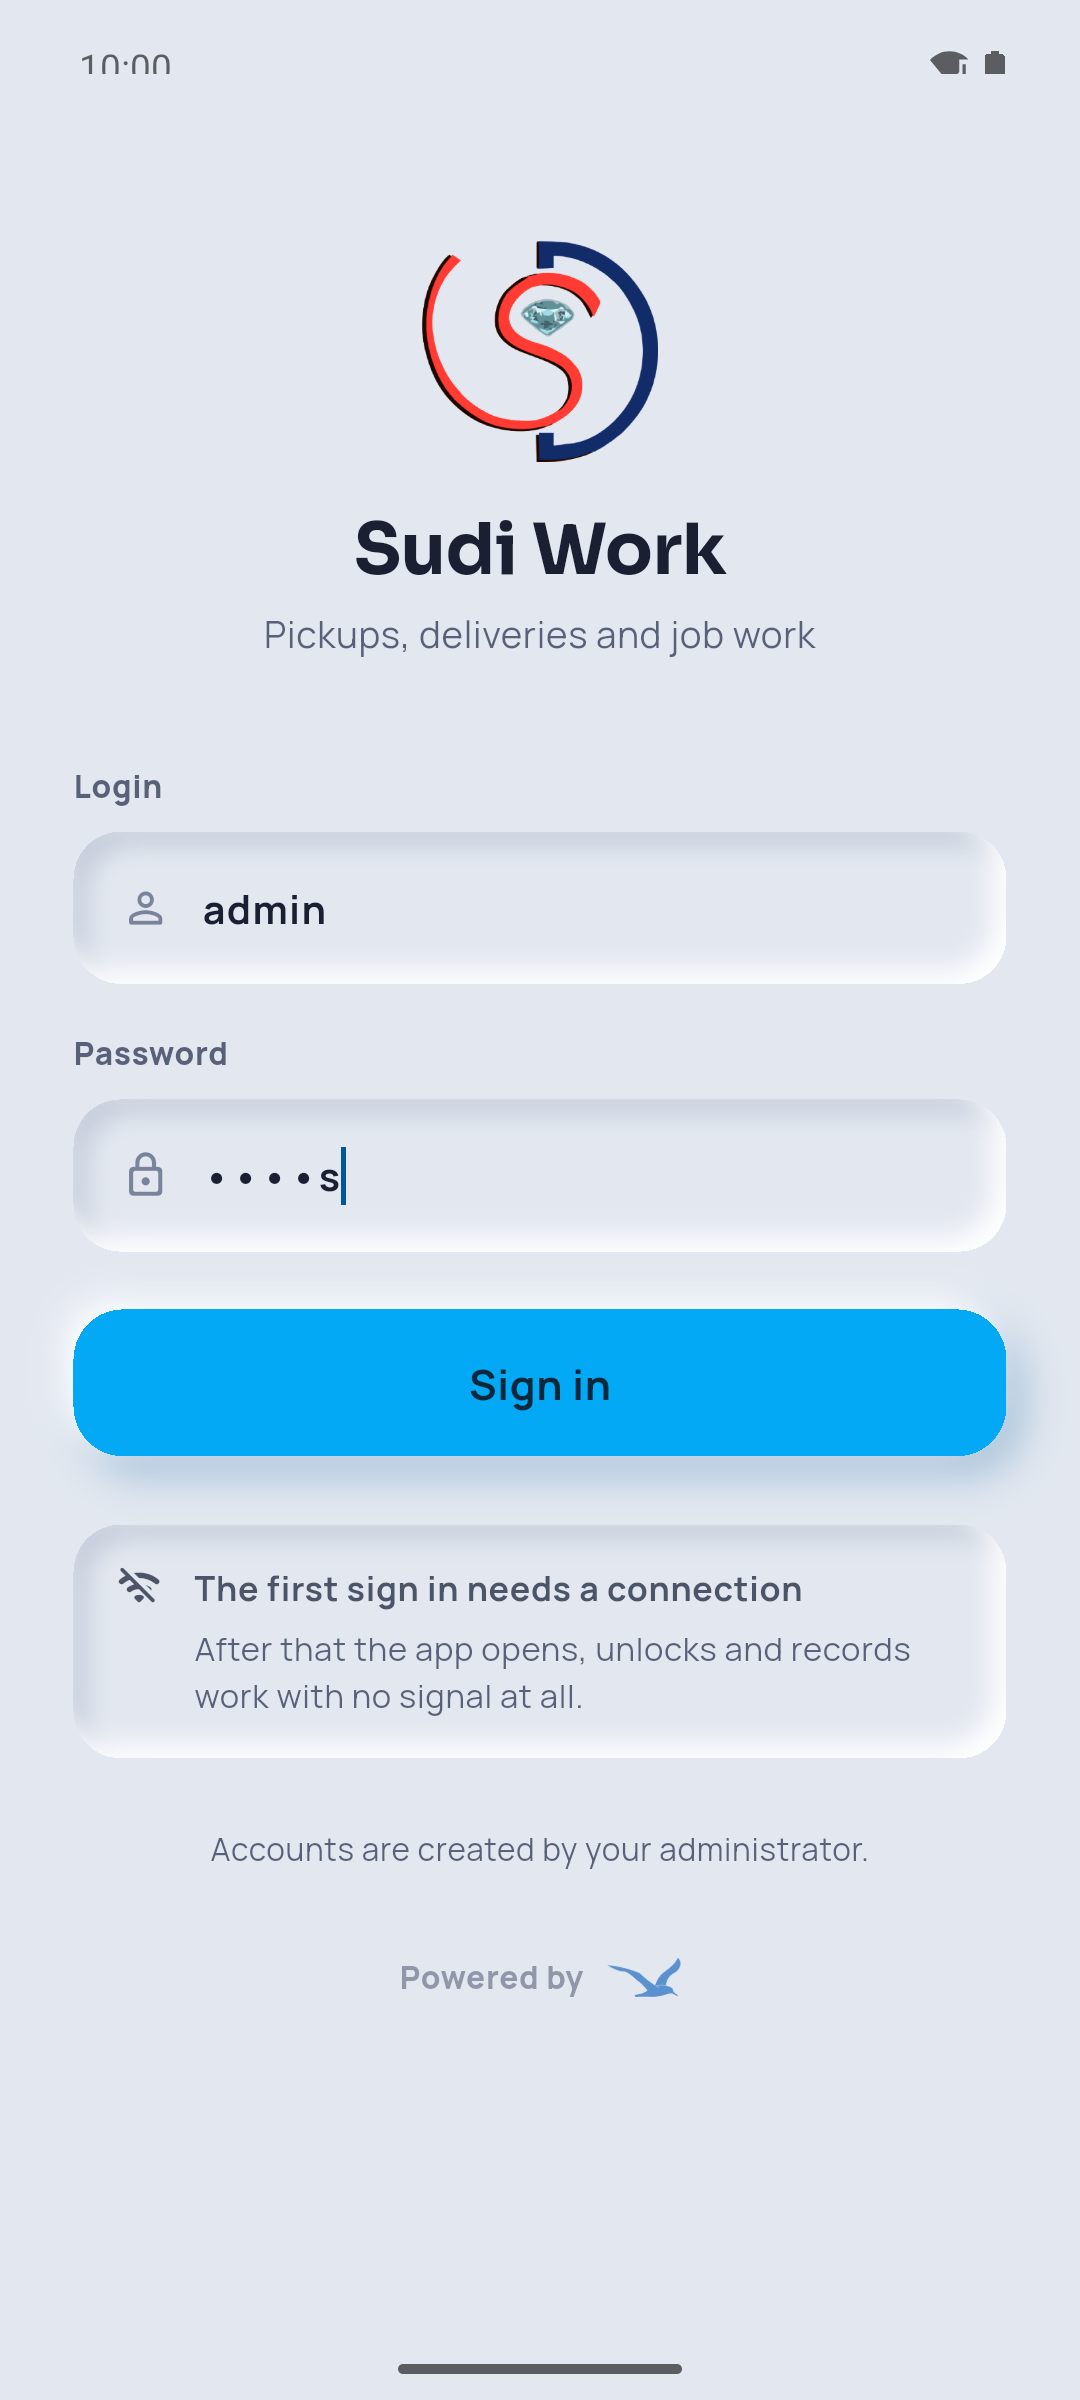
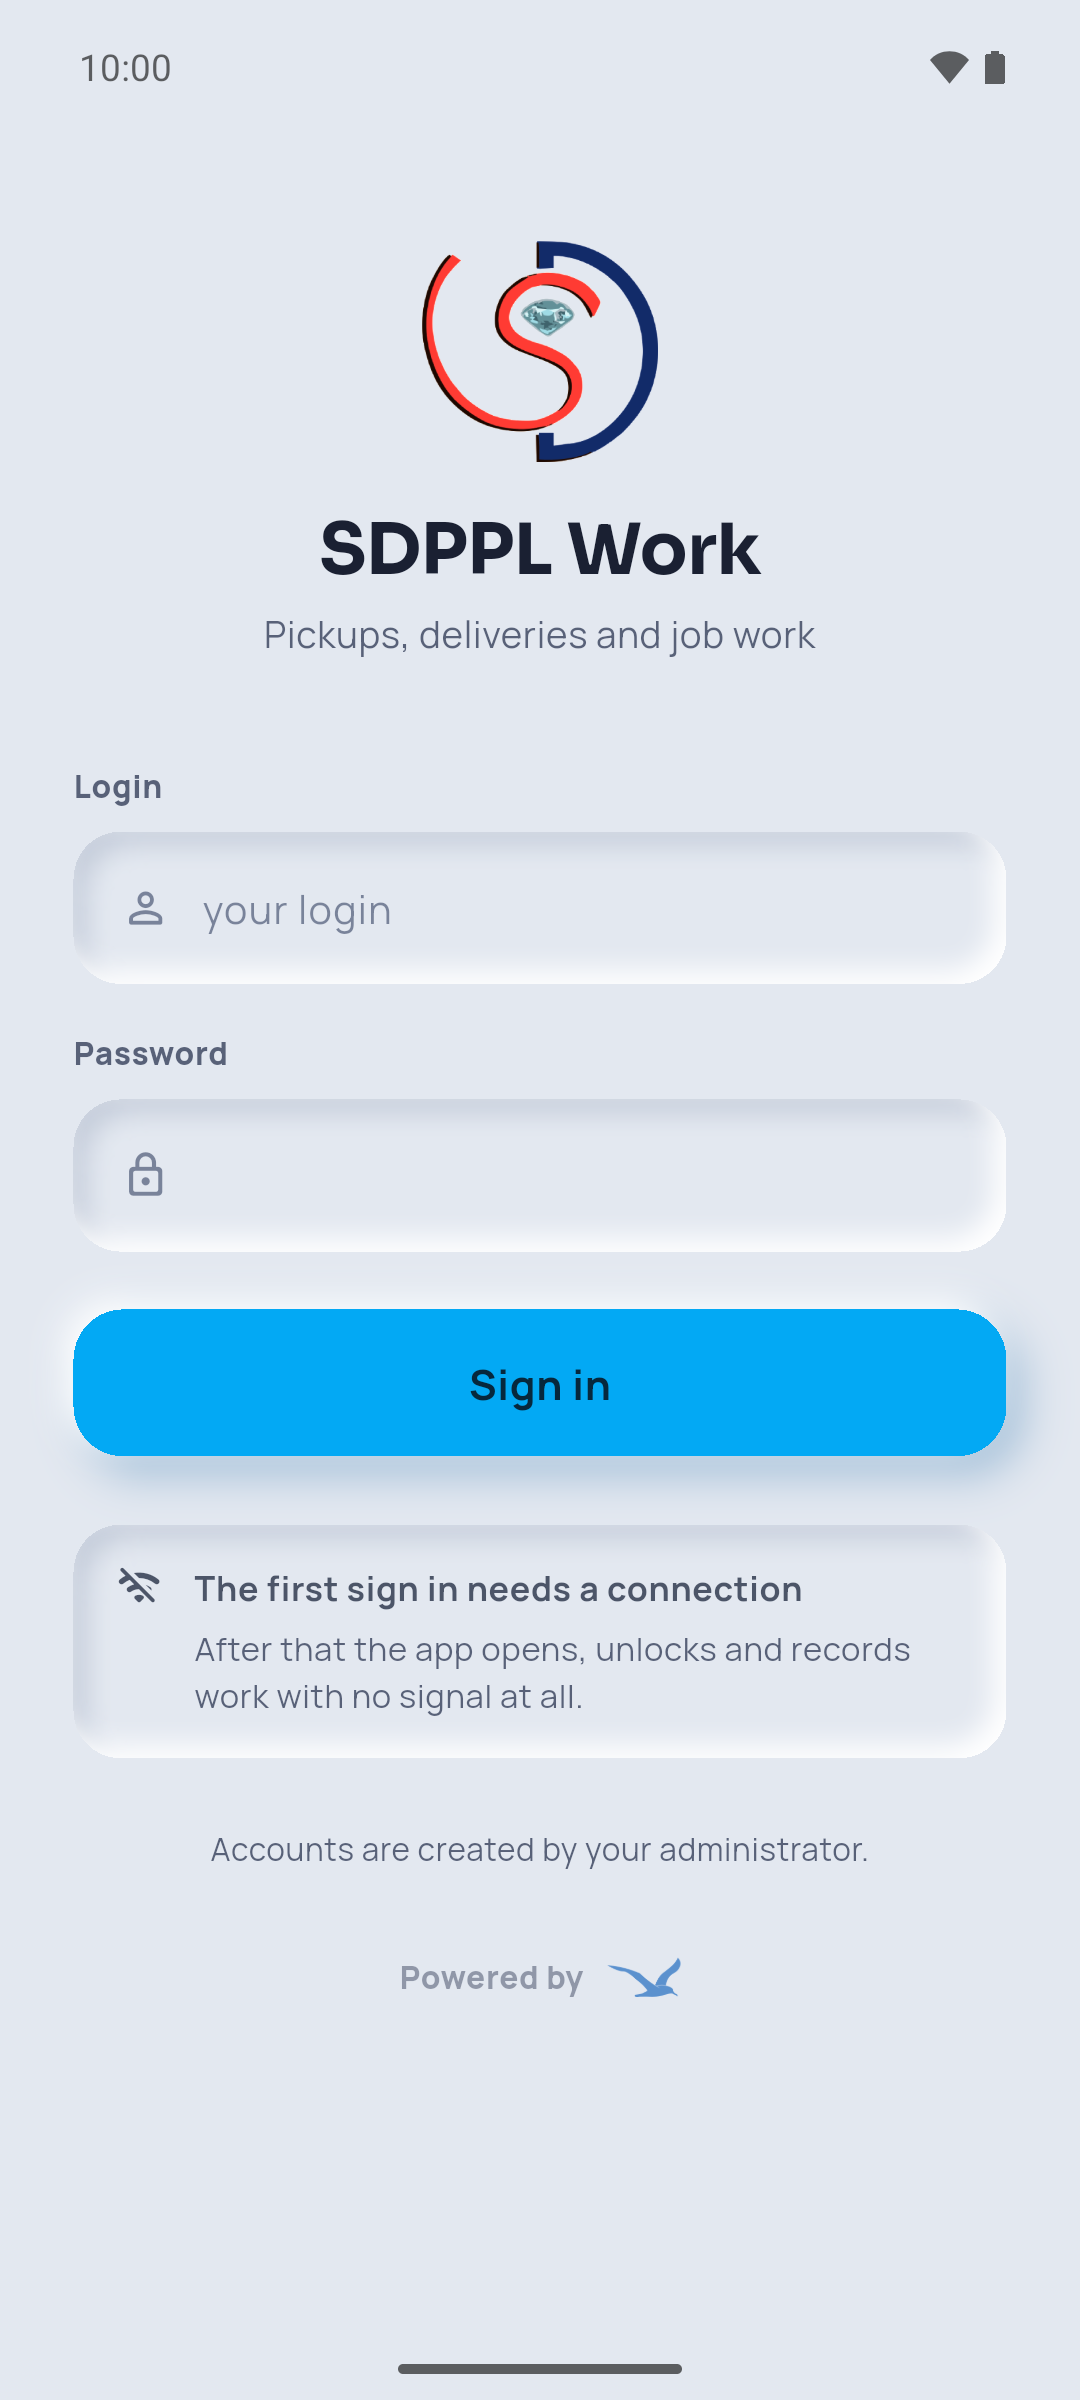
Rebrand to SDPPL / SDPPL Work: new ids com.sdppl.customer + com.sdppl.work
Store names, launcher labels, iOS bundle ids/display names, Firebase
clients for the new package names (google-services.json carries all
four), store graphics, web pages and release handbook all renamed.
Same version 2.1.0+6, same upload keystore.

Changed region(s): [[0.3056, 0.2188, 0.7028, 0.25], [0.1833, 0.375, 0.3361, 0.4062], [0.3056, 0.4688, 0.3361, 0.5]]

diff --git a/store/play/privacy-policy.html b/store/play/privacy-policy.html
@@ -18,16 +18,16 @@
   a { color:var(--acc); } .foot { color:var(--mut); font-size:13px; margin-top:22px; }
 </style></head>
 <body><div class="wrap"><div class="card">
-<h1>Privacy Policy — Sudi &amp; Sudi Work apps</h1>
+<h1>Privacy Policy — SDPPL &amp; SDPPL Work apps</h1>
 <div class="sub">SUPER DIAMOND PROCESSORS PRIVATE LIMITED (“SDPPL”, “we”) · Mumbai, India ·
-Effective 7 November 2026 · Applies to the mobile applications <b>Sudi</b> (for customers)
-and <b>Sudi Work</b> (for SDPPL staff). The website policy lives at
+Effective 7 November 2026 · Applies to the mobile applications <b>SDPPL</b> (for customers)
+and <b>SDPPL Work</b> (for SDPPL staff). The website policy lives at
 <a href="https://sdppl.com/privacy-policy">sdppl.com/privacy-policy</a>.</div>
 
 <h2>1. Who the apps are for</h2>
-<p><b>Sudi</b> lets our customers photograph a jangad (issue voucher), choose the diamond
+<p><b>SDPPL</b> lets our customers photograph a jangad (issue voucher), choose the diamond
 services they need, and arrange a pickup. Anyone may sign up with their mobile number.
-<b>Sudi Work</b> is used only by SDPPL employees; accounts are created by the company and
+<b>SDPPL Work</b> is used only by SDPPL employees; accounts are created by the company and
 there is no public sign-up.</p>
 
 <h2>2. What we collect</h2>
@@ -35,10 +35,10 @@ there is no public sign-up.</p>
 <tr><th>Data</th><th>App</th><th>Why</th></tr>
 <tr><td>Name and mobile number</td><td>Both</td><td>Your account, sign-in, and so our team can
 contact you about a pickup or delivery.</td></tr>
-<tr><td>GST number (optional)</td><td>Sudi</td><td>Invoicing, if you choose to give it.</td></tr>
+<tr><td>GST number (optional)</td><td>SDPPL</td><td>Invoicing, if you choose to give it.</td></tr>
 <tr><td>Photographs you take in the app</td><td>Both</td><td>The jangad slip you send us; for staff,
 the collected slip and the receiver’s signature as proof of delivery.</td></tr>
-<tr><td>Precise location</td><td>Sudi&nbsp;Work only</td><td>Attached to a pickup or delivery the staff
+<tr><td>Precise location</td><td>SDPPL&nbsp;Work only</td><td>Attached to a pickup or delivery the staff
 member records, while using the app, as proof of the visit. The customer app never asks for
 location.</td></tr>
 <tr><td>Device identifiers</td><td>Both</td><td>A random device id, the app version and, if you allow
@@ -61,16 +61,16 @@ encrypted on the device. Business records are kept as long as Indian commercial 
 requires; account data is kept while your account exists.</p>
 
 <h2>5. Deleting your account and data</h2>
-<p>In the <b>Sudi</b> app: Account → <b>Delete my account</b>. You can also request deletion
+<p>In the <b>SDPPL</b> app: Account → <b>Delete my account</b>. You can also request deletion
 without the app at <a href="https://sdppl.com/app/delete-account">sdppl.com/app/delete-account</a>.
 Deletion closes the account and removes personal data not required for legal record-keeping.
-Staff accounts in Sudi Work are managed by the company and end with employment.</p>
+Staff accounts in SDPPL Work are managed by the company and end with employment.</p>
 
 <h2>6. Permissions the apps ask for</h2>
 <ul>
 <li><b>Camera / photos</b> — only when you photograph or pick a jangad page, a receipt page or a
 signature.</li>
-<li><b>Location</b> (Sudi Work only) — only while recording a pickup or delivery.</li>
+<li><b>Location</b> (SDPPL Work only) — only while recording a pickup or delivery.</li>
 <li><b>Notifications</b> — order and work updates. Optional.</li>
 </ul>
 

diff --git a/store/play/delete-account.html b/store/play/delete-account.html
@@ -18,18 +18,18 @@
   a { color:var(--acc); } .foot { color:var(--mut); font-size:13px; margin-top:22px; }
 </style></head>
 <body><div class="wrap"><div class="card">
-<h1>Delete your Sudi account</h1>
-<div class="sub">For the <b>Sudi</b> app by SUPER DIAMOND PROCESSORS PRIVATE LIMITED.</div>
+<h1>Delete your SDPPL account</h1>
+<div class="sub">For the <b>SDPPL</b> app by SUPER DIAMOND PROCESSORS PRIVATE LIMITED.</div>
 
 <h2>In the app (fastest)</h2>
-<p>Open <b>Sudi</b> → tap <b>Account</b> (top right) → <b>Delete my account</b> → confirm.
+<p>Open <b>SDPPL</b> → tap <b>Account</b> (top right) → <b>Delete my account</b> → confirm.
 Your account closes immediately.</p>
 
 <h2>Without the app</h2>
 <p>Send the request from the mobile number the account uses, so we can verify it is yours:</p>
 <ul>
 <li>WhatsApp or call: <b>+91 80808 09288</b></li>
-<li>Email: <a href="mailto:info@sdppl.com?subject=Delete%20my%20Sudi%20account">info@sdppl.com</a>
+<li>Email: <a href="mailto:info@sdppl.com?subject=Delete%20my%20SDPPL%20account">info@sdppl.com</a>
 — include the account’s mobile number.</li>
 </ul>
 <p>We confirm and close the account within 7 days.</p>

diff --git a/lib/src/config/flavor.dart b/lib/src/config/flavor.dart
@@ -8,7 +8,7 @@ import 'package:flutter/material.dart';
 enum Flavor {
   field(
     apiPath: '/api/field/v1',
-    title: 'Sudi Work',
+    title: 'SDPPL Work',
     // The brand blue, used as a fill.
     accent: Color(0xFF03A9F4),
     // Its legible partner for text and icons: #03A9F4 as 12px type on the
@@ -20,7 +20,7 @@ enum Flavor {
   ),
   customer(
     apiPath: '/api/customer/v1',
-    title: 'Sudi',
+    title: 'SDPPL',
     accent: Color(0xFF0E6F66),
     accentInk: Color(0xFF0B564F),
     accentShadow: Color(0x4D09463F),

diff --git a/lib/src/features/field/sign_in_screens.dart b/lib/src/features/field/sign_in_screens.dart
@@ -102,7 +102,7 @@ class _SignInScreenState extends ConsumerState<SignInScreen> {
               ),
             ),
             const SizedBox(height: 18),
-            Text('Sudi Work', textAlign: TextAlign.center, style: NeuText.title(c.ink, size: 27)),
+            Text('SDPPL Work', textAlign: TextAlign.center, style: NeuText.title(c.ink, size: 27)),
             const SizedBox(height: 6),
             Text(
               'Pickups, deliveries and job work',

diff --git a/store/play/PLAY_STORE_RELEASE.md b/store/play/PLAY_STORE_RELEASE.md
@@ -1,4 +1,4 @@
-# Sudi & Sudi Work — Play Store release handbook
+# SDPPL & SDPPL Work — Play Store release handbook
 
 Everything for the first Play Store release of the two production apps, in the
 order the console asks for it. Every file named here sits in `store/play/`;
@@ -7,8 +7,8 @@ website: **https://sdppl.com**.
 
 | | Customer app | Staff app |
 |---|---|---|
-| Store name | **Sudi** | **Sudi Work** |
-| Package | `com.sudi.customer` | `com.sudi.work` |
+| Store name | **SDPPL** | **SDPPL Work** |
+| Package | `com.sdppl.customer` | `com.sdppl.work` |
 | Who signs in | any customer, phone + WhatsApp code | staff accounts made by the company |
 | Bundle | `build/app/outputs/bundle/customerRelease/app-customer-release.aab` | `build/app/outputs/bundle/fieldRelease/app-field-release.aab` |
 | Icon | `icon-512-customer.png` | `icon-512-work.png` |
@@ -34,18 +34,18 @@ website: **https://sdppl.com**.
 
 ## 1. Create the apps (console → Create app, twice)
 
-- App name: `Sudi` (then `Sudi Work`) · Default language: `English (United
+- App name: `SDPPL` (then `SDPPL Work`) · Default language: `English (United
   Kingdom)` · **App** · **Free** · accept the declarations.
 
 ## 2. Store listings
 
-### Sudi (customer)
+### SDPPL (customer)
 
 Short description (≤80 chars):
 > Diamond services by SDPPL: send your jangad, we collect, process and deliver.
 
 Full description:
-> Sudi is the customer app of SUPER DIAMOND PROCESSORS PRIVATE LIMITED
+> SDPPL is the customer app of SUPER DIAMOND PROCESSORS PRIVATE LIMITED
 > (SDPPL), Mumbai — diamond processing services such as laser inscription,
 > drilling, boiling and testing.
 >
@@ -60,13 +60,13 @@ Full description:
 > An SDPPL trade account is created on first sign-in. The app is for our
 > jewellery-trade customers in India.
 
-### Sudi Work (staff)
+### SDPPL Work (staff)
 
 Short description:
 > SDPPL staff app: pickups, office intake, job work and deliveries — offline.
 
 Full description:
-> Sudi Work is the staff app of SUPER DIAMOND PROCESSORS PRIVATE LIMITED
+> SDPPL Work is the staff app of SUPER DIAMOND PROCESSORS PRIVATE LIMITED
 > (SDPPL), Mumbai. It is used by our own employees; accounts are created by
 > the company and there is no public sign-up.
 >
@@ -104,9 +104,9 @@ released the deploy-folder way; nginx also learned `$uri/index.html`).
   Terms of Use tick is a legal agreement — **the owner clicks it**. Expected
   result: Everyone / PEGI 3.
 - **Data safety** — see §6.
-- **Account deletion** (asked for Sudi because it has account creation):
+- **Account deletion** (asked for SDPPL because it has account creation):
   deletion URL `https://sdppl.com/app/delete-account`; in-app path Account →
-  Delete my account. Sudi Work: accounts are created and removed by the
+  Delete my account. SDPPL Work: accounts are created and removed by the
   organisation, no self sign-up.
 
 ## 5. App access (reviewer sign-in)
@@ -116,11 +116,11 @@ credentials are NOT in this repository: see
 `~/.config/sdppl/play-review-logins.txt` and `~/.config/sdppl/review-code.txt`
 on the build machine.
 
-- **Sudi Work**: "All or some functionality is restricted" → `playreview@sdppl.com`
+- **SDPPL Work**: "All or some functionality is restricted" → `playreview@sdppl.com`
   + the saved password (roles: pickup/delivery, job work, office). Reviewer
   note: *"Employee-only app; the server is preset; the account sees the
   pickup/office/job-work/delivery work lists."*
-- **Sudi**: *"Enter phone 9900112233, tap 'Send code on WhatsApp', then enter
+- **SDPPL**: *"Enter phone 9900112233, tap 'Send code on WhatsApp', then enter
   the fixed review code <saved code> on the next screen (review bypass — real
   customers receive their code on WhatsApp). The account signs into a sandbox
   customer profile."*
@@ -128,10 +128,10 @@ on the build machine.
 ## 6. Data safety (declare exactly this)
 
 Both apps: Collects data **Yes** · Encrypted in transit **Yes** · Deletion
-request path **Yes** (Sudi: in-app + URL; Sudi Work: via the company).
+request path **Yes** (SDPPL: in-app + URL; SDPPL Work: via the company).
 Nothing is **shared**. Nothing is used for tracking or ads.
 
-| Data type | Sudi | Sudi Work | Purpose |
+| Data type | SDPPL | SDPPL Work | Purpose |
 |---|---|---|---|
 | Personal info → Name, Phone number | ✓ | ✓ | Account management |
 | Personal info → Other info (GST number, optional) | ✓ | — | App functionality (invoicing) |
@@ -139,7 +139,7 @@ Nothing is **shared**. Nothing is used for tracking or ads.
 | Location → Precise, foreground only | — | ✓ (pickup/delivery record) | App functionality |
 | Device or other IDs (device id, push token) | ✓ | ✓ | App functionality |
 
-(The customer build carries no location permission; only Sudi Work declares
+(The customer build carries no location permission; only SDPPL Work declares
 location.)
 
 ## 7. Upload and roll out (per app)
@@ -156,8 +156,8 @@ location.)
 
 ## 8. After both apps are live
 
-- Mac/iOS: new App Store app for **Sudi Work** with bundle id
-  `com.sudi.work` (ios/Flutter/field.xcconfig already renamed) + Firebase iOS
+- Mac/iOS: new App Store app for **SDPPL Work** with bundle id
+  `com.sdppl.work` (ios/Flutter/field.xcconfig already renamed) + Firebase iOS
   apps for both bundle ids — the Mac session prompt is prepared separately.
 - Remove the review OTP parameters or rotate the code if support wants it.
 - Keep `~/.config/sdppl/sudi-upload-keystore.jks` + password banked; losing

diff --git a/README.md b/README.md
@@ -1,6 +1,6 @@
 # sudi_fe
 
-Flutter front end for Sudi — one codebase, two build flavors:
+Flutter front end for SDPPL (project "Sudi") — one codebase, two build flavors:
 
 | Flavor | Audience | Base URL |
 |---|---|---|
@@ -80,8 +80,8 @@ The iOS project carries the same two apps as Android, as Xcode schemes:
 
 | Scheme / `--flavor` | Bundle id | Name on the phone | Entry point |
 |---|---|---|---|
-| `field` | `com.sudi.work` | Sudi Work | `lib/main_field.dart` |
-| `customer` | `com.sudi.customer` | Sudi | `lib/main_customer.dart` |
+| `field` | `com.sdppl.work` | SDPPL Work | `lib/main_field.dart` |
+| `customer` | `com.sdppl.customer` | SDPPL | `lib/main_customer.dart` |
 
 Bundle id, name and entry point live in `ios/Flutter/field.xcconfig` and
 `ios/Flutter/customer.xcconfig`; each scheme builds with its own
@@ -93,12 +93,12 @@ Bundle id, name and entry point live in `ios/Flutter/field.xcconfig` and
 1. Xcode (current), CocoaPods (`brew install cocoapods`) and the same Flutter
    as the build machine (`flutter --version`: 3.47 stable). Then `flutter pub get`.
 2. developer.apple.com → Certificates, IDs & Profiles → Identifiers: register
-   the explicit App IDs `com.sudi.field` and `com.sudi.customer`. If Apple says
-   one is taken, pick another (e.g. `com.sdppl.field`) and change
+   the explicit App IDs `com.sdppl.work` and `com.sdppl.customer`. If Apple says
+   one is taken, pick another (e.g. `com.sdppl.field2`) and change
    `PRODUCT_BUNDLE_IDENTIFIER` in that flavor's xcconfig.
 3. App Store Connect → Apps → **+ New App** (iOS) for each bundle id. The App
-   Store name must be unique worldwide, so "Sudi" may be refused: use e.g.
-   "Sudi by SDPPL" there. The name under the icon stays as in the table.
+   Store name must be unique worldwide, so "SDPPL" may be refused: use e.g.
+   "SDPPL by Super Diamond" there. The name under the icon stays as in the table.
 4. Signing: put the Team ID in `ios/Flutter/Team.xcconfig`
    (`DEVELOPMENT_TEAM = ABCDE12345`, without the `//`), or open
    `ios/Runner.xcworkspace` → Runner → Signing & Capabilities → Team. Signing is
@@ -144,7 +144,7 @@ Check the server is reachable before blaming the app:
 curl https://<your-tunnel>.trycloudflare.com/api/field/v1/health?db=sudi
 ```
 
-Application ids are `com.sudi.field` and `com.sudi.customer`, so both flavors
+Application ids are `com.sdppl.work` and `com.sdppl.customer`, so both flavors
 install side by side on one handset — which is how the conflict cases get
 tested.
 

diff --git a/docs/IOS_RELEASE_PROMPT.md b/docs/IOS_RELEASE_PROMPT.md
@@ -1,18 +1,20 @@
-# Prompt for the Mac session — Sudi iOS release (give verbatim)
+# Prompt for the Mac session — SDPPL iOS release (give verbatim)
 
 The Android apps are live work; iOS follows them. Repo `sudi_fe`, branch
-`main` — pull first; you need commit 98023a7 or later.
+`main` — pull first; you need the SDPPL-rename commit (after c3bac23) or later.
 
-1. **Sudi Work is the old "field" flavor, renamed.** `ios/Flutter/field.xcconfig`
-   already says `PRODUCT_BUNDLE_IDENTIFIER = com.sudi.work`,
-   `APP_DISPLAY_NAME = Sudi Work`. In App Store Connect create a NEW app
-   "Sudi Work" with the new bundle id `com.sudi.work` (the old TestFlight app
-   under com.sudi.field is retired — do not upload to it again). The customer
-   app stays `com.sudi.customer` / "Sudi".
+1. **Both apps were renamed to SDPPL / SDPPL Work with NEW bundle ids.**
+   `ios/Flutter/field.xcconfig` says `PRODUCT_BUNDLE_IDENTIFIER = com.sdppl.work`,
+   `APP_DISPLAY_NAME = SDPPL Work`; `customer.xcconfig` says
+   `com.sdppl.customer` / `SDPPL`. In App Store Connect create TWO NEW apps,
+   "SDPPL Work" (`com.sdppl.work`) and "SDPPL" (`com.sdppl.customer`). The old
+   TestFlight apps under com.sudi.field / com.sudi.customer are retired — do
+   not upload to them again. Register the two new explicit App IDs in
+   developer.apple.com first.
 2. **Firebase (push) is set up** — project `sudi-3f4bf` under the client's
    Google account (sdppl15@gmail.com). On the Mac:
    - In the Firebase console add TWO iOS apps to that project, bundle ids
-     `com.sudi.customer` and `com.sudi.work`; download each
+     `com.sdppl.customer` and `com.sdppl.work`; download each
      `GoogleService-Info.plist`.
    - Wire them per-flavor the Xcode way (one plist per scheme, same approach
      as the per-flavor xcconfigs already in the project), add the
